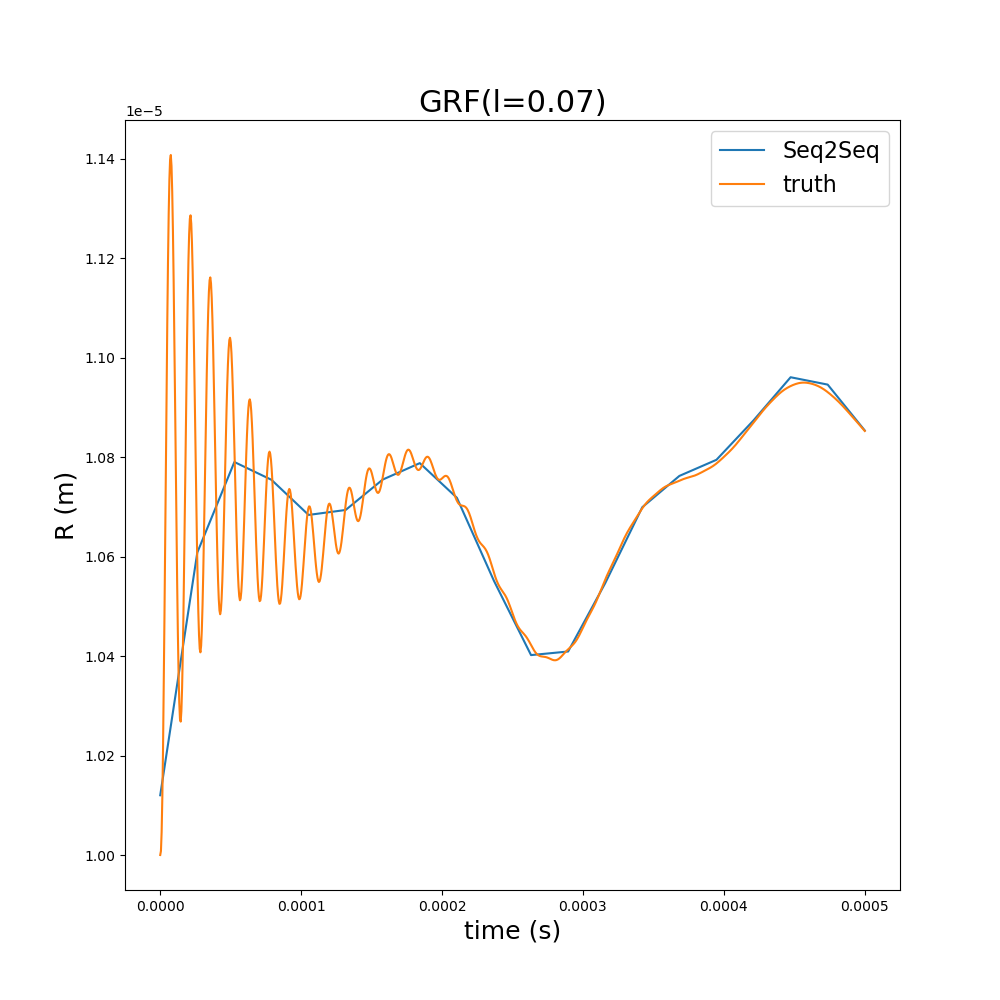
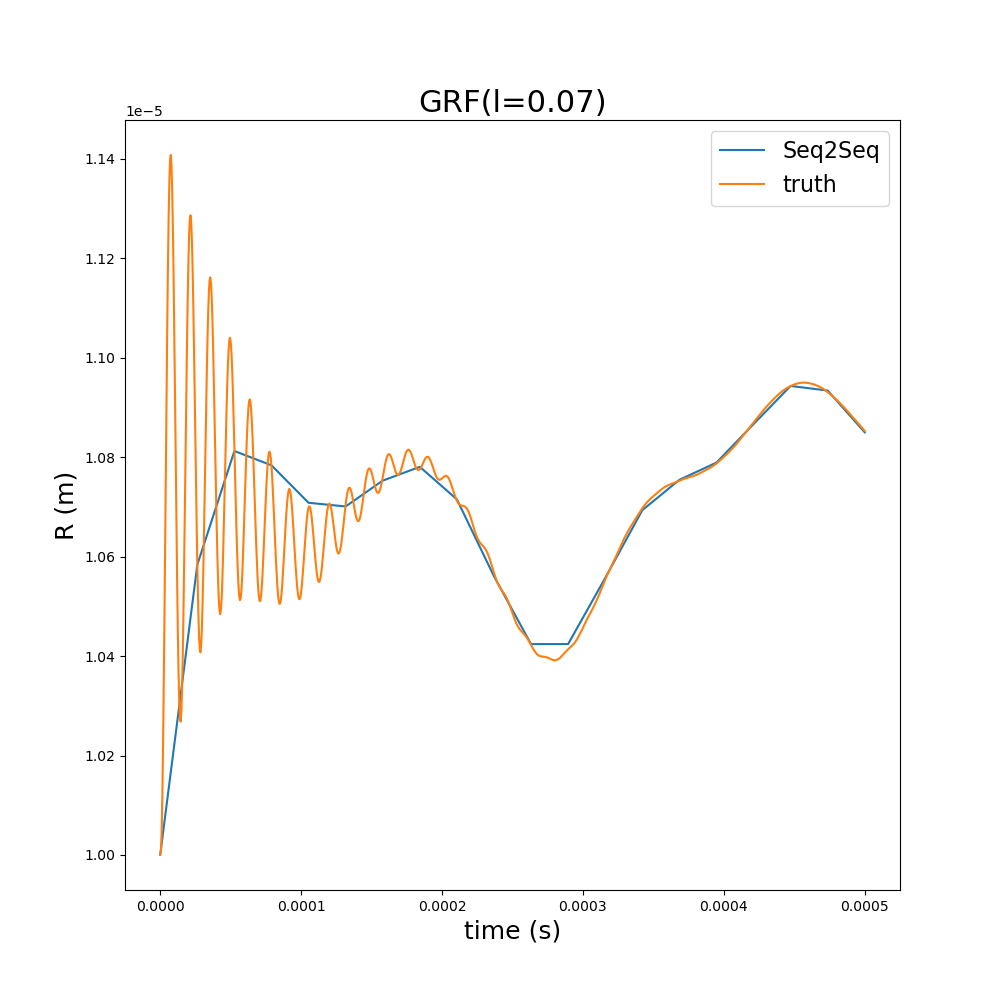
sayans changes

diff --git a/Tarun/analyze_seq.py b/Tarun/analyze_seq.py
@@ -42,12 +42,12 @@ def normalize(X_func, y, Par):
 
 def main():
     Par = {}
-    Par['address'] = 'seq_80'
+    Par['address'] = 'seq_200'
 
     train_dataset = np.load('../data/0.1/res_1000.npz')
     test_dataset = np.load('../data/0.08/res_1000.npz')
 
-    m = 80
+    m = 200
     npoints_output = 200
 
     X_train, y_train = preprocess(
@@ -76,8 +76,10 @@ def main():
     # print('X_func_test: ', X_func_test.shape, '\nX_loc_test: ', X_loc_test.shape, '\ny_test: ', y_test.shape)
 
     seq_model = Seq_Model(Par)
-    seq_model_address = 'seq_80/model_10000'
+    seq_model_address = 'seq_200/model_10000'
     seq_model.load_weights(seq_model_address)
+
+    mse_list = []
 
     for i in [0.07, 0.08, 0.09, 0.1, 0.2, 0.3, 0.4, 0.5, 0.6, 0.7, 0.8]:
         print('\nGRF(l={:.1})'.format(i))
@@ -87,7 +89,7 @@ def main():
         # address = 'data/'+str(i)+'/res_1000.npz'
         test_dataset = np.load(address)
 
-        m = 80
+        m = 200
         npoints_output = 500
 
         X_test, y_test = preprocess(
@@ -105,6 +107,7 @@ def main():
 
         y_pred = seq_model(X_test)
         mse = tf.math.reduce_mean((y_pred - y_test)**2)
+        mse_list.append(mse)
         print('MSE: {:.4e}'.format(mse))
 
         y_pred = tf.cast(y_pred, tf.float64)
@@ -116,7 +119,7 @@ def main():
         y_truth = y_truth*Par['r_std'] + Par['r_mean']
 
         plt.figure(figsize=(10, 10))
-        plt.plot(np.ravel(np.linspace(0, 5*10**-4, 80)),
+        plt.plot(np.ravel(np.linspace(0, 5*10**-4, 200)),
                  np.ravel(y_pred), label='Seq2Seq')
         plt.plot(np.ravel(np.linspace(0, 5*10**-4, 1000)),
                  np.ravel(y_truth), label='truth')
@@ -125,8 +128,10 @@ def main():
         plt.legend(fontsize=16)
         plt.title('GRF(l={:.1})'.format(i), fontsize=22)
         plt.savefig(
-            'seq_80/predictions/'+str(i)+'.png')
+            'seq_200/predictions/'+str(i)+'.png')
         plt.close()
+
+    print("MSE LIST: ", mse_list)
 
 
 main()

diff --git a/Tarun/seq.py b/Tarun/seq.py
@@ -29,7 +29,7 @@ class Seq_Model(tf.keras.Model):
         self.lr = 10**-4
         self.optimizer = tf.keras.optimizers.Adam(learning_rate=self.lr)
 
-        self.window_size = 80
+        self.window_size = 200
 
         self.encoder = tf.keras.layers.GRU(
             20, return_sequences=True, return_state=True)
